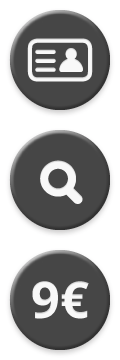
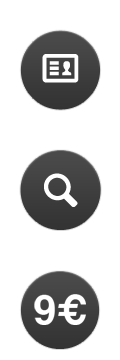
design change

diff --git a/webapp/larryslist/website/templates/index.html b/webapp/larryslist/website/templates/index.html
@@ -5,7 +5,7 @@
     <script>
         require(["views/landing"], function(View){new View({el: $(".index-search-form") });});
         $("#index-tab-nav").affix({offset: $("#index-tab-nav").offset().top});
-        $(window).scrollspy({target: "#index-tab-nav", offset: 200});
+        $(window).scrollspy({target: "#index-tab-nav", offset: 50});
     </script>
 </%block>
 
@@ -55,17 +55,12 @@ ${self.searchForm()}
     <div class="container">
         <div class="row">
             <div class="span12">
-                <ul class="nav nav-pills home-nav-pills"><li class="nav-pill-large"><a href="#what-you-get">
-                    What You Get
-                </a></li><li class="nav-pill-large"><a href="#pricing">
-                    Pricing
-                </a></li><li class="nav-pill-large"><a href="#ranking">
-                    Collector Ranking
-                </a></li><li class="nav-pill-large"><a href="#data-sources">
-                    Data Sources
-                </a></li><li class="nav-pill-large"><a href="#who-is-larry">
-                    Who is Larry?
-                </a></li>
+                <ul class="nav nav-pills home-nav-pills">
+                   <li class="nav-pill-large"><a class="left-pill" href="#what-you-get"> What You Get</a></li>
+                   <li class="nav-pill-large"><a href="#pricing">Pricing</a></li>
+                   <li class="nav-pill-large"><a href="#ranking">Collector Ranking</a></li>
+                   <li class="nav-pill-large"><a href="#data-sources">Data Sources</a></li>
+                   <li class="nav-pill-large"><a class="right-pill" href="#who-is-larry">Who is Larry?</a></li>
                 </ul>
             </div>
         </div>
@@ -91,8 +86,8 @@ ${self.searchForm()}
         <div class="panel text panel-right">
             <div class="panel-content">
                 <h3>Unique Information on Art Collectors.</h3>
-                <p>We compiled detailed information on leading art collectors around the world. Carefully and manually selected by our reserchers there is no other database alike. Use our filters to find your matching art collector</p>
-                <p><a class="link" data-toggle="modal" data-target="#data-profile-sample-modal">Here</a> is an example of a profile</p>
+                <p>We compiled detailed information on leading art collectors around the world. Our reserchers carefully selected the data manually. There is no database like this.</p>
+                <p><a class="link" data-toggle="modal" data-target="#data-profile-sample-modal">Here</a> is an example of a profile.</p>
             </div>
         </div>
     </div><hr class="pane-separator">
@@ -100,7 +95,7 @@ ${self.searchForm()}
         <div class="panel text panel-left">
             <div class="panel-content">
                 <h3>One Profile = 9 &euro;<br />Simple.</h3>
-                <p>We created a fair and simple pricing. You can either pay per profile. Or you can either per profile or you can buy credits for purchases at a later time.</p>
+                <p>We created a fair and simple pricing model. You can either pay per profile or you can buy credits for purchases at a later date.</p>
                 <p>You will be able to see the profile for a year, including all updates.</p>
             </div>
         </div>
@@ -111,7 +106,7 @@ ${self.searchForm()}
         <div class="panel text panel-left">
             <div class="panel-content">
                 <h3>A Transparent Ranking,<br />Finally.</h3>
-                <p>We defined a ranking that is not based on how much the collector spends but on how active he is in the market. This methodology is unique and brings transparency.</p>
+                <p>We defined a ranking that is not based on how much the collector spends but on how active he is on the market. This methodology is unique and brings transparency.</p>
                 <p>Learn more <a href="/collector-report" class="link">here.</a></p>
             </div>
         </div>
@@ -120,7 +115,7 @@ ${self.searchForm()}
         <div class="panel text panel-left">
             <div class="panel-content">
                 <h3>We Love Research.</h3>
-                <p>We love researching. This is our job. We looked into almost every database, book, website, just to find all the information available on the leading art collectors. You dont believe it? </p>
+                <p>This is our job. We looked into almost every database, book, website, just to find all the information available on the leading art collectors.</p>
             </div>
         </div>
         <div class="panel picture panel-right"><img src="${STATIC_URL}img/landing/research.png?${VERSION_TOKEN}" class="home-picture"/> </div>

diff --git a/webapp/larryslist/website/static/less/index.less b/webapp/larryslist/website/static/less/index.less
@@ -25,16 +25,36 @@
   margin-top:170px;
   margin-bottom:280px;
   font-size:@largerFontSize;
-  border:2px solid #a4a4a4;
+  border:1px solid #a4a4a4;
+  border-radius:10px;
+  h3 {
+    margin-left:20px;
+    line-height:90%;
+  }
+  p {
+    margin-left:20px;
+    font-size:120%;
+  }
+}
+#how-button {
+  .buttonBackground(#a2a2a2, #555555);
+  float:right;
+  padding:12px 30px;
+  margin-right:30px;
+  margin-top:-53px;
   border-radius:10px;
 }
-.profile-count-band h3 {
-margin-left:20px;
-line-height:90%;
+
+#how-button a {
+color:white;
+font-size:22px;
+font-weight:bold;
 }
-.profile-count-band p {
-margin-left:20px;
+#how-button a:hover {
+color:black;
+text-decoration:none;
 }
+
 .index-search-form {
   .search-title{
     font-size:@largerFontSize;
@@ -49,7 +69,7 @@ margin-left:20px;
 
 .home-icons {
   display: inline-block;
-  margin:40px 0 70px;
+  margin:10px 0 70px;
   padding:0;
   width:33.3%;
   text-align: center;
@@ -77,8 +97,8 @@ margin-left:20px;
     top: 0;
     left: 0;
     z-index: 10;
-    background: rgb(231,231,231);
-    border-bottom: 1px solid @hrBorder;
+//    background: rgb(231,231,231);
+//    border-bottom: 1px solid @hrBorder;
     .nav-pills {margin-bottom:-2px;}
   }
 }
@@ -98,8 +118,14 @@ margin-left:20px;
 .home-nav-pills {
   @bgColor: rgb(231,231,231);
   margin-bottom: 0;
-  .box-shadow(0 -2px 3px rgba(0,0,0,.2));
+ .box-shadow(0 -2px 3px rgba(0,0,0,.2));
   &.four-col > .nav-pill-large {width:25%;}
+  .left-pill {
+    xborder-radius:10px 0 0 10px;
+  }
+  .right-pill {
+    xborder-radius:0 10px 10px 0;
+  }
   > .nav-pill-large {
     width:20%;
     border-bottom: 1px solid @white;
@@ -118,6 +144,7 @@ margin-left:20px;
     }
     &:hover > a {
       color:@textColor;
+//      .buttonBackground(#969696, #ededed);
     }
     &.active {
       .background-image("../img/tabactive.png");
@@ -176,23 +203,4 @@ margin-left:20px;
     font-size:230%;
     line-height:30px;
   }
-}
-#how-button {
-  background:#9c9c9c;
-  background-image:linear-gradient(to bottom, #9e9e9e, #616161);
-  float:right;
-  padding:12px 30px;
-  margin-right:30px;
-  margin-top:-53px;
-  border-radius:10px;
-}
-
-#how-button a {
-color:white;
-font-size:22px;
-font-weight:bold;
-}
-#how-button a:hover {
-color:black;
-text-decoration:none;
 }

diff --git a/webapp/larryslist/website/static/bootstrap/forms.less b/webapp/larryslist/website/static/bootstrap/forms.less
@@ -53,8 +53,8 @@ textarea {
 
 // Identify controls by their labels
 label {
-  display: block;
-  margin-bottom: 5px;
+  display:block;
+  margin-bottom:8px;
 }
 
 // Form controls
@@ -265,20 +265,22 @@ textarea {
 .input-xxlarge    { width: 530px; }
 input.input-fullwidth, textarea.input-fullwidth {
   width:92%;
-  height:30px;
-  padding-left:30px;
+  height:36px;
+  padding-left:5px;
   padding-right:2%;
   border-radius:10px;
 }
 
 .field-where {
-  background:url(../img/landing/field-where.png) 9px 7px no-repeat;
+  padding-left:30px !important;
+  background:url(../img/landing/field-where.png) 9px 9px no-repeat;
 }
 .field-who {
-  background:url(../img/landing/field-who.png) 9px 7px no-repeat;
+  padding-left:40px !important;
+  background:url(../img/landing/field-who.png) 9px 9px no-repeat;
 }
 .search-button {
-  height:40px;
+  height:46px;
   font-size:22px !important;
   border-radius:10px !important;
 }

diff --git a/webapp/larryslist/website/static/bootstrap/variables.less b/webapp/larryslist/website/static/bootstrap/variables.less
@@ -38,7 +38,7 @@
 
 // Links
 // -------------------------
-@linkColor:             rgb(229,0,12);
+@linkColor:             rgb(255,0,0);
 @linkColorHover:        darken(@linkColor, 15%);
 
 
@@ -49,7 +49,7 @@
 @monoFontFamily:        Monaco, Menlo, Consolas, "Courier New", monospace;
 
 @smallFontSize:         10px;
-@baseFontSize:          12px;
+@baseFontSize:          13px;
 @largerFontSize:        14px;
 @largeFontSize:         20px;
 @baseFontFamily:        @sansFontFamily;
@@ -92,7 +92,7 @@
 @btnBorder:                         #bbb;
 
 @btnPrimaryBackground:              @linkColor;
-@btnPrimaryBackgroundHighlight:     spin(@btnPrimaryBackground, 20%);
+@btnPrimaryBackgroundHighlight:     #BB0000;
 
 @btnInfoBackground:                 #5bc0de;
 @btnInfoBackgroundHighlight:        #2f96b4;

diff --git a/webapp/larryslist/website/templates/collector/index.html b/webapp/larryslist/website/templates/collector/index.html
@@ -11,10 +11,10 @@
 
 <%def name="basicCard(collector)">
     <%self:card title="Basic Information">
-        ${self.simpleLine('Nationality', collector.nationality)}
+##        ${self.simpleLine('Nationality', collector.nationality)}
         ${self.simpleLine('Born', collector.getDOB(request))}
         ${self.multiLine(collector, "Areas of interest", "Interest")}
-        ${self.multiLine(collector, "Education", "University")}
+##        ${self.multiLine(collector, "Education", "University")}
         ${self.multiLine(collector, "Email", "Email")}
 
         %if len(collector.Network):
